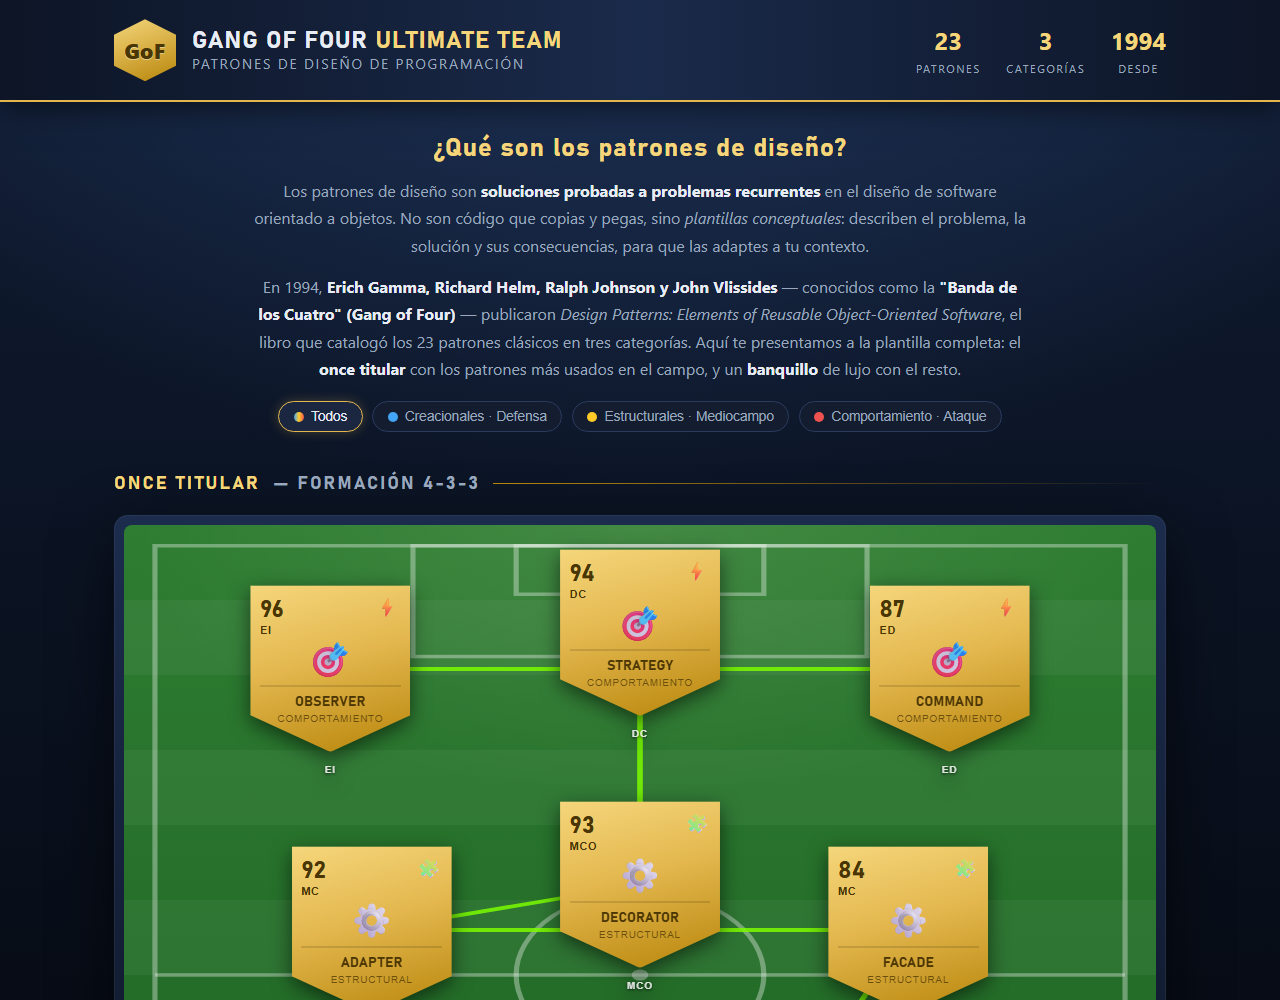
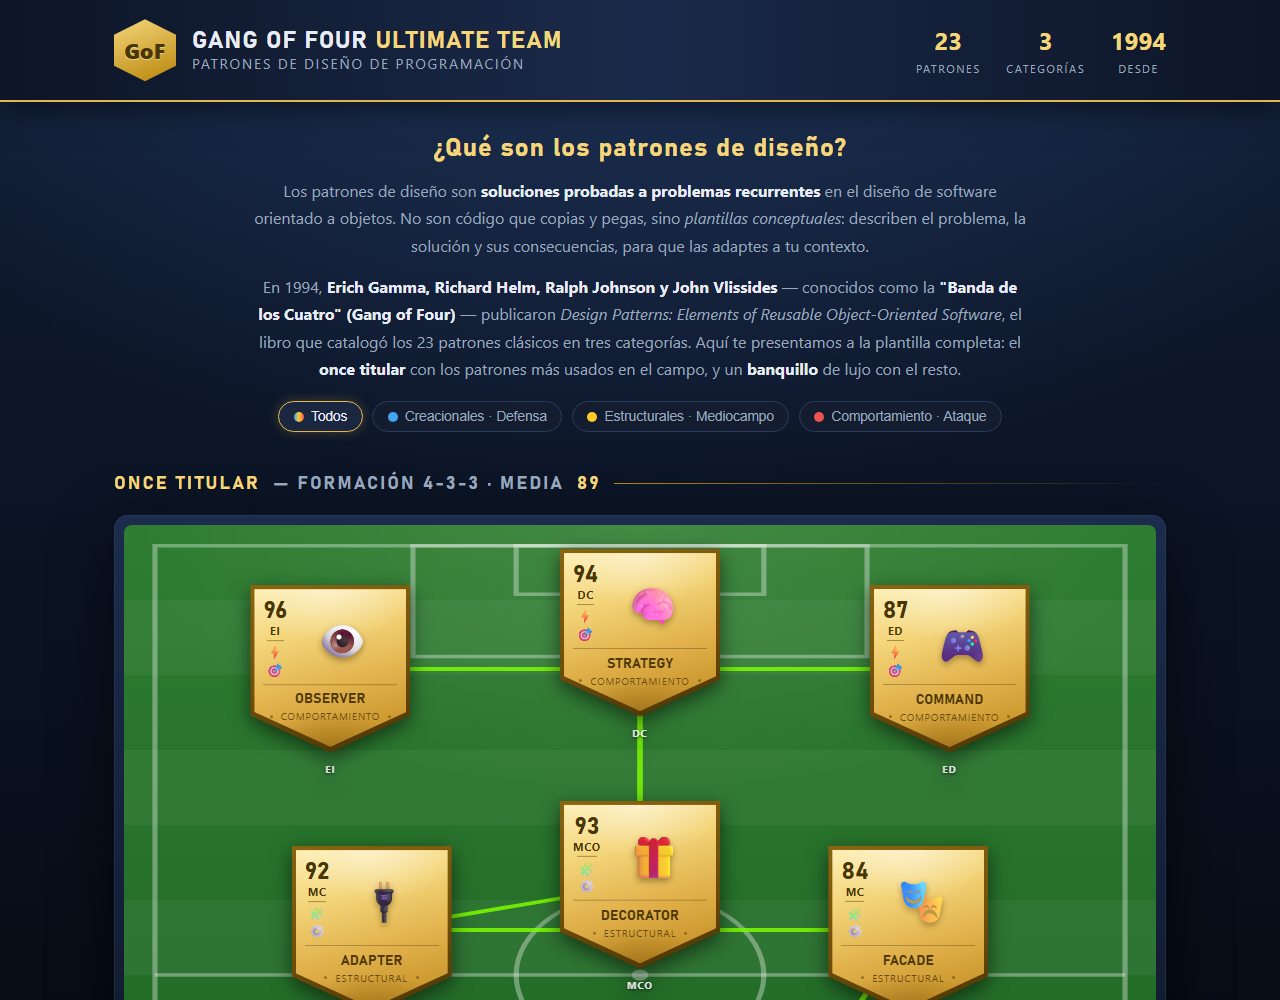
Rediseño de cartas estilo FUT e intercambios banquillo/titular
- Cartas con marco dorado, brillo al pasar el ratón, columna de
  rating/posición/categoría y retrato emoji propio por patrón
- Intercambios por drag & drop o botón ⇄ (banco↔titular, titular↔titular,
  banco↔banco), conservando la posición del hueco de la formación
- Media del equipo en vivo y química redibujada tras cada cambio

diff --git a/css/styles.css b/css/styles.css
@@ -205,23 +205,71 @@ main { max-width: 1100px; margin: 0 auto; padding: 0 1.5rem; }
   padding: 0;
   transition: filter 0.2s, opacity 0.2s;
   filter: drop-shadow(0 6px 10px rgba(0, 0, 0, 0.55));
+  -webkit-user-select: none;
+  user-select: none;
 }
-.fut-card:hover { filter: drop-shadow(0 6px 14px rgba(245, 214, 123, 0.55)); z-index: 5; }
+.fut-card:hover, .fut-card:focus-visible { filter: drop-shadow(0 6px 14px rgba(245, 214, 123, 0.55)); z-index: 5; }
 .fut-card.dimmed { opacity: 0.25; }
 
+.fut-card.dragging { opacity: 0.35; }
+.fut-card.drop-target {
+  filter: drop-shadow(0 0 14px rgba(124, 252, 0, 0.9));
+  z-index: 6;
+}
+.fut-card.selected {
+  filter: drop-shadow(0 0 16px rgba(124, 252, 0, 1));
+  z-index: 6;
+}
+.fut-card.selected .card-inner::after {
+  content: "";
+  position: absolute;
+  inset: 0;
+  clip-path: polygon(0 0, 100% 0, 100% 78%, 50% 100%, 0 78%);
+  background: rgba(124, 252, 0, 0.14);
+  pointer-events: none;
+}
+
+/* marco exterior (rim) dorado oscuro + cara interior clara, como las FUT reales */
 .card-inner {
   clip-path: polygon(0 0, 100% 0, 100% 78%, 50% 100%, 0 78%);
-  background: linear-gradient(165deg, var(--gold-1) 0%, var(--gold-2) 45%, var(--gold-3) 100%);
+  background: linear-gradient(165deg, #8a6410 0%, #6f4e0a 55%, #4a3305 100%);
   color: var(--gold-text);
-  padding: 8% 6% 18%;
+  position: relative;
+  padding: 2.5% 2.5% 3.5%;
+}
+
+.card-face {
+  clip-path: polygon(0 0, 100% 0, 100% 78%, 50% 100%, 0 78%);
+  background:
+    radial-gradient(ellipse 95% 55% at 50% 0%, rgba(255, 255, 255, 0.45), transparent 60%),
+    radial-gradient(ellipse 80% 45% at 50% 105%, rgba(122, 84, 10, 0.55), transparent 60%),
+    linear-gradient(165deg, #fdeeb0 0%, #f3d478 30%, #e0b04a 62%, #c08a1e 100%);
+  padding: 7% 6% 16%;
   text-align: center;
   position: relative;
 }
 
+/* brillo diagonal al pasar el ratón */
+.card-face::before {
+  content: "";
+  position: absolute;
+  inset: 0;
+  background: linear-gradient(115deg, transparent 30%, rgba(255, 255, 255, 0.35) 46%, rgba(255, 255, 255, 0.08) 54%, transparent 66%);
+  transform: translateX(-120%);
+  transition: transform 0.5s ease;
+  pointer-events: none;
+}
+.fut-card:hover .card-face::before { transform: translateX(120%); }
+
 /* carta inform (oscura) para el portero, como el TIR/BAS de la imagen */
 .fut-card.inform .card-inner {
-  background: linear-gradient(165deg, #3a3a44 0%, var(--inform-1) 40%, var(--inform-2) 100%);
+  background: linear-gradient(165deg, #55555f 0%, #2c2c34 55%, #101014 100%);
   color: #f0d98c;
+}
+.fut-card.inform .card-face {
+  background:
+    radial-gradient(ellipse 95% 55% at 50% 0%, rgba(255, 255, 255, 0.10), transparent 60%),
+    linear-gradient(165deg, #43434d 0%, var(--inform-1) 40%, var(--inform-2) 100%);
 }
 
 .card-top {
@@ -229,15 +277,31 @@ main { max-width: 1100px; margin: 0 auto; padding: 0 1.5rem; }
   align-items: flex-start;
   justify-content: space-between;
   text-align: left;
+  min-height: 52%;
+}
+
+/* columna izquierda: rating / posición / línea / categoría, como en FIFA 15 */
+.card-meta {
+  display: flex;
+  flex-direction: column;
+  align-items: center;
+  gap: 4%;
+  flex: 0 0 auto;
 }
 .card-rating { font-size: clamp(1rem, 2.2vw, 1.5rem); font-weight: 800; line-height: 1; }
-.card-pos { display: block; font-size: clamp(0.5rem, 1vw, 0.7rem); font-weight: 700; letter-spacing: 0.5px; margin-top: 2px; }
-.card-caticon { font-size: clamp(0.8rem, 1.6vw, 1.2rem); line-height: 1; }
+.card-pos { font-size: clamp(0.5rem, 1vw, 0.7rem); font-weight: 700; letter-spacing: 0.5px; }
+.card-metaline { width: 70%; height: 1px; background: rgba(74, 53, 5, 0.45); margin: 8% 0; }
+.fut-card.inform .card-metaline { background: rgba(240, 217, 140, 0.4); }
+.card-flag, .card-club { font-size: clamp(0.6rem, 1.2vw, 0.85rem); line-height: 1.3; }
 
-.card-crest {
-  font-size: clamp(1.2rem, 3vw, 2.2rem);
-  margin: 4% 0 6%;
-  line-height: 1;
+/* "retrato" del patrón */
+.card-photo {
+  flex: 1;
+  font-size: clamp(1.5rem, 3.6vw, 2.6rem);
+  line-height: 1.1;
+  align-self: center;
+  text-align: center;
+  filter: drop-shadow(0 3px 3px rgba(74, 53, 5, 0.45));
 }
 
 .card-name {
@@ -245,7 +309,8 @@ main { max-width: 1100px; margin: 0 auto; padding: 0 1.5rem; }
   font-weight: 800;
   text-transform: uppercase;
   letter-spacing: 0.4px;
-  border-top: 1px solid rgba(0, 0, 0, 0.25);
+  border-top: 1px solid rgba(74, 53, 5, 0.35);
+  margin-top: 4%;
   padding-top: 5%;
   white-space: nowrap;
   overflow: hidden;
@@ -253,12 +318,45 @@ main { max-width: 1100px; margin: 0 auto; padding: 0 1.5rem; }
 }
 .fut-card.inform .card-name { border-top-color: rgba(240, 217, 140, 0.35); }
 
-.card-cat {
+.card-catrow {
+  display: flex;
+  align-items: center;
+  justify-content: center;
+  gap: 6%;
   font-size: clamp(0.42rem, 0.9vw, 0.6rem);
   text-transform: uppercase;
   letter-spacing: 1px;
-  opacity: 0.75;
+  opacity: 0.8;
   margin-top: 2px;
+}
+.catdot { width: 3px; height: 3px; border-radius: 50%; background: currentColor; opacity: 0.6; flex: 0 0 auto; }
+
+/* botón de intercambio */
+.card-swap {
+  position: absolute;
+  top: -7px;
+  right: -7px;
+  z-index: 3;
+  display: grid;
+  place-items: center;
+  width: 22px;
+  height: 22px;
+  border-radius: 50%;
+  background: linear-gradient(160deg, var(--gold-1), var(--gold-3));
+  color: var(--gold-text);
+  font-size: 0.8rem;
+  font-weight: 800;
+  border: 1px solid rgba(0, 0, 0, 0.35);
+  box-shadow: 0 2px 6px rgba(0, 0, 0, 0.5);
+  opacity: 0;
+  transition: opacity 0.15s, transform 0.15s;
+}
+.fut-card:hover .card-swap, .fut-card:focus-visible .card-swap, .fut-card.selected .card-swap { opacity: 1; }
+.card-swap:hover { transform: scale(1.15); }
+.fut-card.selected .card-swap { background: linear-gradient(160deg, #b6ff6e, #4caf50); }
+
+@media (hover: none) {
+  .card-swap { opacity: 0.85; }   /* táctil: siempre visible */
 }
 
 /* etiqueta de posición fuera de la carta (como "MCO", "LI" en la imagen) */
@@ -355,6 +453,7 @@ main { max-width: 1100px; margin: 0 auto; padding: 0 1.5rem; }
   pointer-events: none;
 }
 .modal-card-col .card-postag { display: none; }
+.modal-card-col .card-swap { display: none; }
 
 .modal-head h3 { font-size: 1.7rem; letter-spacing: 1px; color: var(--gold-1); }
 .modal-intent { color: var(--text-dim); font-style: italic; margin: 0.4rem 0 1rem; line-height: 1.5; }

diff --git a/index.html b/index.html
@@ -51,7 +51,7 @@
 
   <main>
     <section class="pitch-section">
-      <h2 class="section-title"><span>ONCE TITULAR</span> — Formación 4-3-3</h2>
+      <h2 class="section-title"><span>ONCE TITULAR</span> — Formación 4-3-3 · Media <span id="mediaEquipo"></span></h2>
       <div class="pitch-wrap">
         <div class="pitch" id="pitch">
           <svg class="pitch-lines" viewBox="0 0 100 130" preserveAspectRatio="none" aria-hidden="true">
@@ -69,7 +69,7 @@
           <!-- cartas titulares inyectadas por JS -->
         </div>
       </div>
-      <p class="pitch-hint">Las líneas <span class="hint-green">verdes</span> conectan patrones con fuerte química (se combinan a menudo). Haz clic en una carta para ver la ficha completa.</p>
+      <p class="pitch-hint">Las líneas <span class="hint-green">verdes</span> conectan patrones con fuerte química (se combinan a menudo). Haz clic en una carta para ver la ficha completa. Para hacer cambios, <strong>arrastra una carta sobre otra</strong> o usa el botón <strong>⇄</strong> y elige con quién intercambiarla.</p>
     </section>
 
     <section class="bench-section">

diff --git a/README.md b/README.md
@@ -23,6 +23,8 @@ Una página web educativa que presenta los patrones de diseño clásicos del lib
   (futbolística cuando encaja), **ejemplo ejecutable en Python** con resaltado de sintaxis,
   y 6 atributos tipo FUT (frecuencia, flexibilidad, testabilidad…).
 - **Filtros por categoría** para resaltar creacionales, estructurales o de comportamiento.
+- **Haz tus cambios** — arrastra una carta sobre otra (o usa el botón ⇄) para intercambiar
+  suplentes y titulares; la media del equipo y las líneas de química se recalculan al momento.
 
 ## Ejecutar en local
 